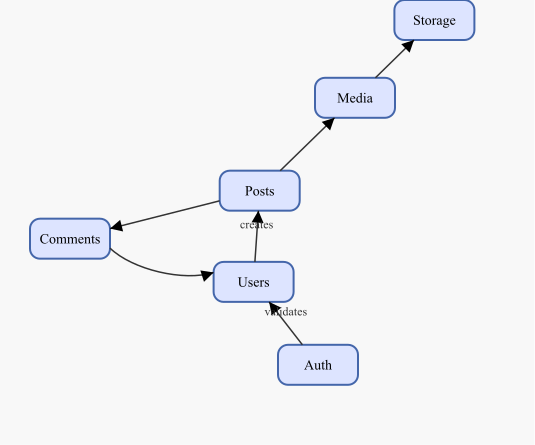
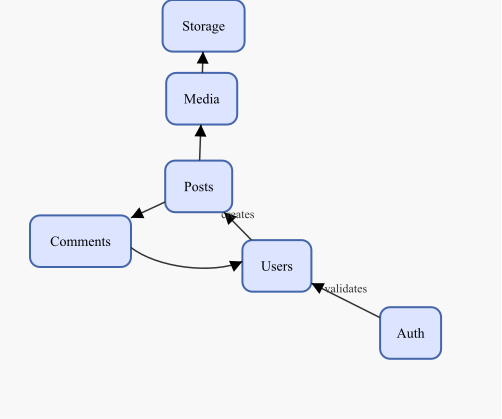
Auto-size elements from content — no explicit dimensions needed
Rects in a stack layout now auto-expand to fit sibling content
(typically text) with padding. This means the common pattern of
{stack: [rect, text]} no longer requires width/height on the rect.

The stack layout detects zero-size children and expands them to
match the content size plus 16px padding on each side.

All graph examples updated to remove explicit sizes — boxes auto-
size from their text labels. Zero hardcoded dimensions in the
ranked_graph and graph examples.

diff --git a/layout/layout.go b/layout/layout.go
@@ -64,8 +64,14 @@ func measure(el *scene.Element, s *scene.Scene) {
 
 	switch el.Type {
 	case "rect":
-		el.ComputedWidth = valOr(el.Width, 100)
-		el.ComputedHeight = valOr(el.Height, 60)
+		// If width/height specified, use them. Otherwise leave at 0 —
+		// a parent stack/group will expand this rect to fill.
+		if el.Width != nil {
+			el.ComputedWidth = *el.Width
+		}
+		if el.Height != nil {
+			el.ComputedHeight = *el.Height
+		}
 
 	case "circle":
 		r := valOr(el.R, 25)
@@ -351,8 +357,51 @@ func layoutGrid(el *scene.Element, s *scene.Scene) {
 }
 
 func layoutStack(el *scene.Element) {
-	var maxW, maxH float64
+	// First pass: find the natural content size from children that have a size.
+	// Text elements provide content size; shapes with explicit size contribute.
+	// Shapes with zero size (auto-sizing rects) are excluded from this pass.
+	var contentW, contentH float64
+	padding := 16.0 // default padding for auto-sized containers
+
 	for _, child := range el.Children {
+		w, h := child.ComputedWidth, child.ComputedHeight
+		if w == 0 && h == 0 {
+			continue // skip zero-size elements (they'll expand later)
+		}
+		if w > contentW {
+			contentW = w
+		}
+		if h > contentH {
+			contentH = h
+		}
+	}
+
+	// If content comes from text, add padding for the container
+	hasAutoSizeShapes := false
+	hasContent := false
+	for _, child := range el.Children {
+		if child.ComputedWidth == 0 && child.ComputedHeight == 0 && child.Width == nil && child.Height == nil {
+			hasAutoSizeShapes = true
+		}
+		if child.ComputedWidth > 0 || child.ComputedHeight > 0 {
+			hasContent = true
+		}
+	}
+
+	if hasAutoSizeShapes && hasContent {
+		contentW += padding * 2
+		contentH += padding * 2
+	}
+
+	// Second pass: expand zero-size children to fill the content area
+	maxW, maxH := contentW, contentH
+	for _, child := range el.Children {
+		if child.ComputedWidth == 0 && child.Width == nil {
+			child.ComputedWidth = maxW
+		}
+		if child.ComputedHeight == 0 && child.Height == nil {
+			child.ComputedHeight = maxH
+		}
 		if child.ComputedWidth > maxW {
 			maxW = child.ComputedWidth
 		}

diff --git a/scene/parse.go b/scene/parse.go
@@ -47,12 +47,8 @@ func applyDefaults(s *Scene) {
 func applyElementDefaults(el *Element) {
 	switch el.Type {
 	case "rect":
-		if el.Width == nil {
-			el.Width = Ptr(100)
-		}
-		if el.Height == nil {
-			el.Height = Ptr(60)
-		}
+		// Don't force default sizes — let layout auto-size from context.
+		// Only set defaults for standalone rects (no parent stack/group).
 	case "circle":
 		if el.R == nil {
 			el.R = Ptr(25)
